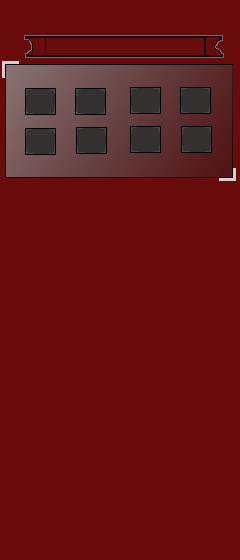
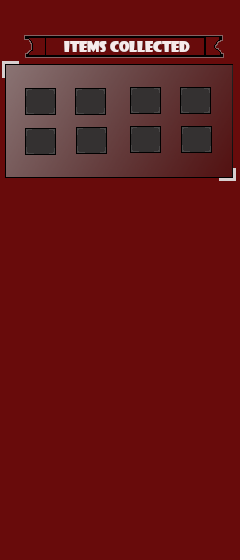
update UI image - add Items Collected text

Changed region(s): [[0.2625, 0.0607, 0.7875, 0.0911]]

diff --git a/styles/styles.css b/styles/styles.css
@@ -38,7 +38,7 @@ h1 {
 #gameHeading{
     color: rgb(250, 245, 245);
     text-shadow: 0 .1rem 1rem rgba(255, 0, 0, 0.678), 
-    0 .1rem .1rem rgb(214, 212, 66);
+    0 .1rem .1rem rgb(241, 237, 7);
     text-align: left;
     position: relative;
     left: 20%;
@@ -49,9 +49,9 @@ h1 {
 @media only screen and (max-width: 1024px) {
     
     #gameHeading{
-        color: rgb(250, 245, 245);
+        color: rgb(239, 223, 240);
         text-shadow: 0 .1rem 1rem rgba(255, 0, 0, 0.678), 
-        0 .1rem .1rem rgb(214, 212, 66);
+        0 .1rem .1rem rgb(241, 237, 7);
         text-align: left;
         position: relative;
         left: 10%;
